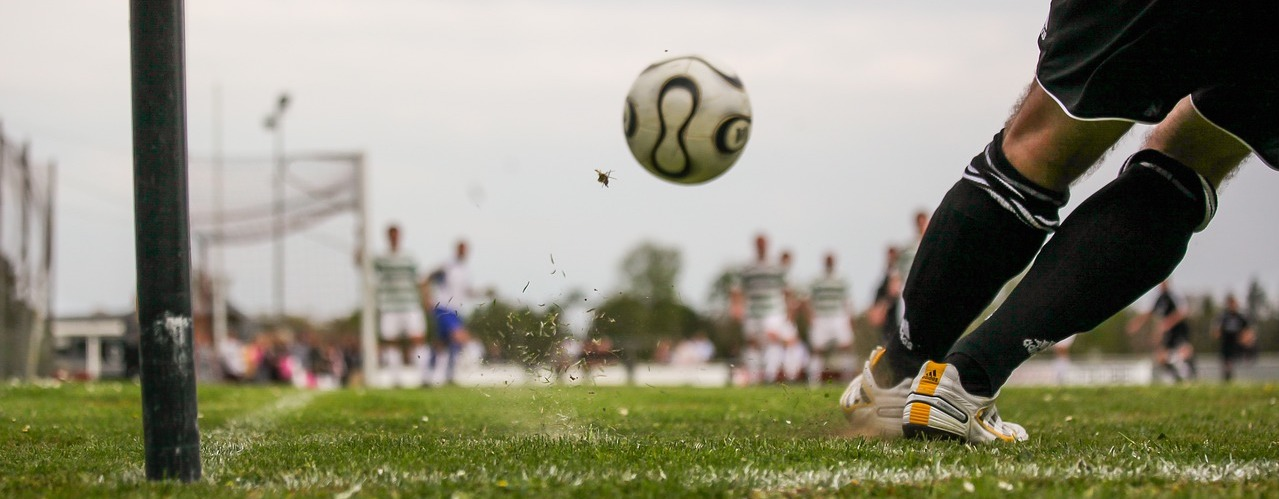
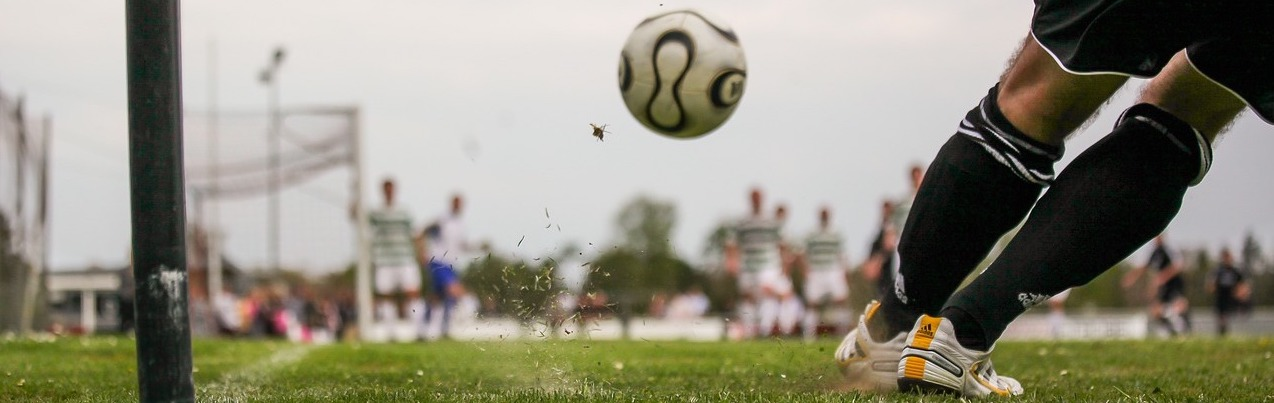
readme

diff --git a/static/style.css b/static/style.css
@@ -11,7 +11,7 @@ body > header {
     background-image: url('/static/images/football_tic.jpy.jpeg');
     background-size: cover;
     padding: 0px;
-    padding-top: 300px;
+    padding-top: 250px;
 }
 
 body > header > h1 {
@@ -21,6 +21,8 @@ body > header > h1 {
     text-align: center;
     margin-left: 25%;
     margin-right: 25%;
+    
+    
 }
 
 body >  footer > h2 {

diff --git a/templates/products/edit.html b/templates/products/edit.html
@@ -27,6 +27,7 @@
         <input type="text" id="product_type" name="product_type" value="{{product.product_type}}" required></input>
     </div>
     
+    
     <div>
         <label for="sport">Sport:</label>
         <select name="sport_id" id="sport">

diff --git a/templates/base.html b/templates/base.html
@@ -12,7 +12,7 @@
 </head>
 <body>
     <header>
-        <h1>Baws n Things</h1>
+        <h1>E - Quipment</h1>
         <nav>
             <ul class="menu">
                 <li><a href="/">Home</a></li>

diff --git a/console.py b/console.py
@@ -16,11 +16,11 @@ sport_repository.save(sport_2)
 sport_3 = Sport("Ice Hockey", True)
 sport_repository.save(sport_3)
 
-product_1 = Product("Football", "size 5 mitre", 7, 3, 10, "Ball", sport_1)
+product_1 = Product("Football", "Size-5, Mitre", 7, 5, 14, "Ball", sport_1)
 product_repository.save(product_1)
 
-product_2 = Product("Racket", "Wilson - Red", 5, 35, 50, "Equipment", sport_2)
+product_2 = Product("Racket", "Wilson Blade Pro - Red", 5, 35, 100, "Equipment", sport_2)
 product_repository.save(product_2)
 
-product_3 = Product("Puck", "Bauer - Black", 3, 1, 4, "Equipment", sport_3)
+product_3 = Product("Ice Skates", "Bauer Vapor Hyperlite - Black", 3, 500, 700, "Equipment", sport_3)
 product_repository.save(product_3)
